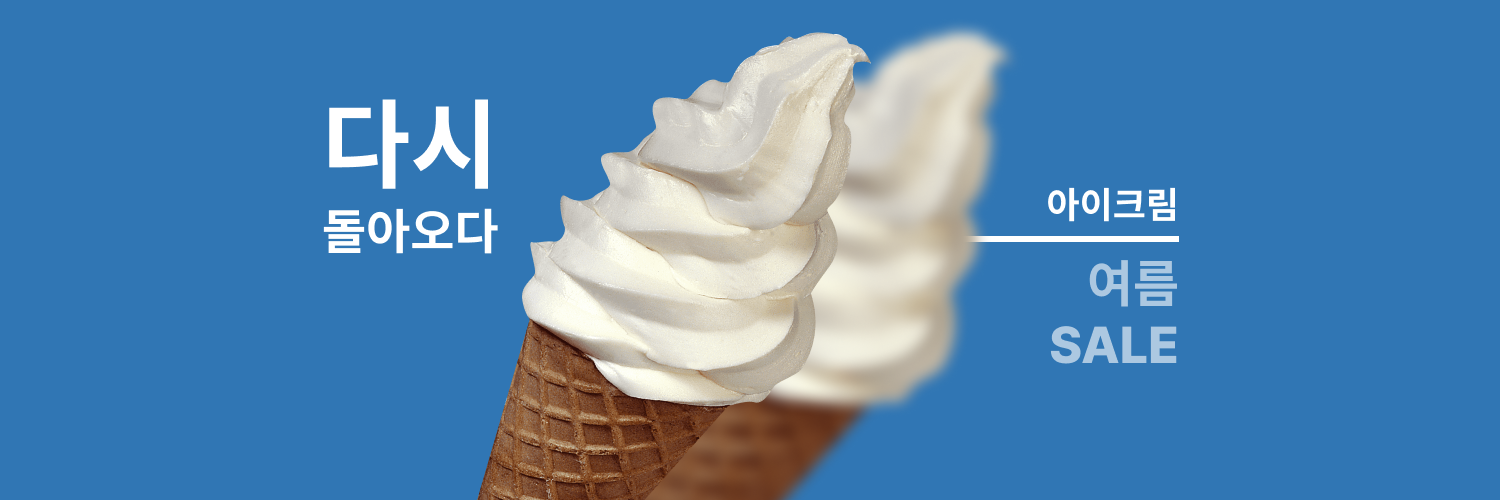
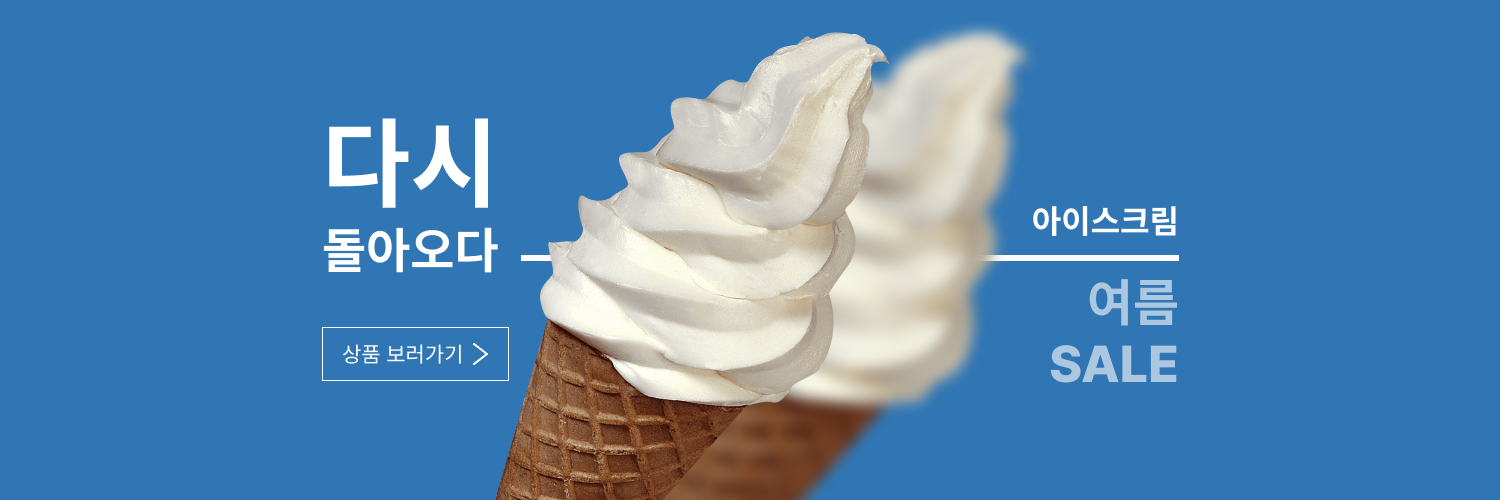
#18 로고 및 배너 이미지 변경, 환불 및 교환 전화번호 양식 오류 수정

Changed region(s): [[0.2147, 0.06, 0.7973, 1.0]]

diff --git a/customer/app/client/src/js/Permute.js b/customer/app/client/src/js/Permute.js
@@ -29,13 +29,13 @@ const Permute = () => {
         if(tel === "" || !regExp.test(tel) &&  !regExp2.test(tel)){
             alert("전화번호 입력 오류! 다시 확인해주세요.",tel)
         } else {
-            let newTel;
+            let newTel = tel;
 
             if(regExp2.test(tel)) { 
                 newTel = tel.replace(/-/g, '').replace(/(\d{3})(\d{4})(\d{4})/, '$1-$2-$3') 
                 setTel(newTel)
             }
-
+            
             axios.post('/permute/tel', null, {
                 params: {
                     'tel': newTel

diff --git a/customer/app/client/src/component/BennerSlide.jsx b/customer/app/client/src/component/BennerSlide.jsx
@@ -19,6 +19,13 @@ export const BennerSlide = () => {
         alt="Second slide"
         />
       </Carousel.Item>
+      <Carousel.Item>
+        <img
+        className="d-block w-100"
+        src="./img/benner3.png"
+        alt="First slide"
+        />
+      </Carousel.Item>
     </Carousel>
   )
 
